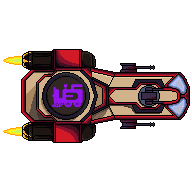
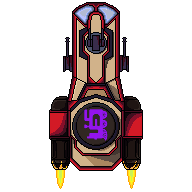
added movement animation

diff --git a/player.py b/player.py
@@ -30,25 +30,44 @@ class Player:
         self.default_sprite = self.attack_sprites[0]
         self.current_sprite = self.default_sprite
 
+        # Load the thruster sprite (for movement)
+        self.thruster_sprite = pygame.image.load("assets/spaceship_boost.png").convert_alpha()
+        self.thruster_sprite = pygame.transform.scale(self.thruster_sprite, (PLAYER_SIZE, PLAYER_SIZE))
+
         # Flag to track if the player is shooting and animating
         self.is_shooting = False
+
+        # Flag to track if the player is moving
+        self.is_moving = False
 
     def move(self, keys, dt):
         # Movement logic
         move_x = 0
         move_y = 0
+        self.is_moving = False  # Reset the movement flag
+
         if keys[pygame.K_LEFT] and self.position.x > 0:
             move_x = -PLAYER_SPEED
+            self.is_moving = True
         if keys[pygame.K_RIGHT] and self.position.x < SCREEN_WIDTH - PLAYER_SIZE:
             move_x = PLAYER_SPEED
+            self.is_moving = True
         if keys[pygame.K_UP] and self.position.y > 0:
             move_y = -PLAYER_SPEED
+            self.is_moving = True
         if keys[pygame.K_DOWN] and self.position.y < SCREEN_HEIGHT - PLAYER_SIZE:
             move_y = PLAYER_SPEED
+            self.is_moving = True
 
         movement = Vec2d(move_x, move_y) * dt
         self.position += movement
         self.shape.topleft = (self.position.x, self.position.y)
+
+        # Change to thruster sprite if moving
+        if self.is_moving and not self.is_shooting:
+            self.current_sprite = self.thruster_sprite
+        elif not self.is_moving and not self.is_shooting:
+            self.current_sprite = self.default_sprite
 
     def draw(self, screen):
         # Draw current sprite
